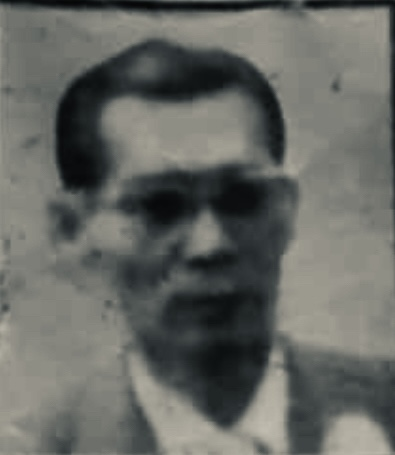
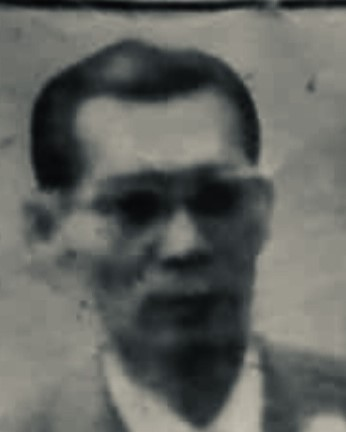
Move Login to menu and join Us to hero

diff --git a/app/sermons/page.tsx b/app/sermons/page.tsx
@@ -3,6 +3,8 @@
 import { useState } from "react";
 import { Button } from "@/components/ui/button";
 import { PlayCircle, Calendar, User } from "lucide-react";
+import Link from "next/link";
+import Image from "next/image"; // <--- Import Image
 
 // --- SERMON DATA ---
 const sermonsData = [
@@ -13,38 +15,36 @@ const sermonsData = [
     date: "December 9, 2025",
     category: "FAITH SERIES",
     description: "Discover what it means to truly trust God when the path ahead is unclear. We explore 2 Corinthians 5:7 and learn how to navigate life's challenges through spiritual vision.",
-    videoId: "oEBwRr2aILc", // Replace with real YouTube ID
+    videoId: "oEBwRr2aILc", 
   },
   {
     id: 2,
     title: "The Power of Prayer",
-    speaker: "Pastor John Doe",
-    date: "December 2, 2025",
+    speaker: "Bro. Abon Mangubat",
+    date: "February 12, 2023",
     category: "PRAYER WORKS",
     description: "Prayer is not just asking for things; it is a conversation with the Creator. Learn how to deepen your prayer life and see real change.",
-    videoId: "FwhLi7YOOSs",
+    videoId: "0ustuDLHTjI",
   },
   {
     id: 3,
     title: "Living a Life of Gratitude",
-    speaker: "Sis. Jane Smith",
-    date: "November 25, 2025",
+    speaker: "Bro. Abon Mangubat",
+    date: "December 1, 2025",
     category: "THANKSGIVING",
     description: "Gratitude changes our attitude. In this message, we look at how being thankful in all circumstances can transform your mental and spiritual health.",
-    videoId: "zRlU0GOMMX0",
+    videoId: "c5aaOqqp5tc",
   },
 ];
 
 export default function SermonsPage() {
   const [activeSermon, setActiveSermon] = useState(sermonsData[0]);
 
-  // Handle clicking a card at the bottom
   const handleSermonClick = (sermon: typeof sermonsData[0]) => {
     setActiveSermon(sermon);
     scrollToPlayer();
   };
 
-  // Scroll to the video player
   const scrollToPlayer = () => {
     const player = document.getElementById("main-video-player");
     if (player) {
@@ -55,17 +55,41 @@ export default function SermonsPage() {
   return (
     <div className="min-h-screen bg-slate-50 font-sans">
       
-      {/* --- HERO SECTION --- */}
-      <section className="bg-emerald-900 text-white py-12 px-4 md:px-12 transition-colors duration-500">
-        <div className="max-w-7xl mx-auto grid lg:grid-cols-2 gap-12 items-center">
+      {/* --- HERO SECTION WITH BACKGROUND IMAGE --- */}
+      <section className="relative w-full py-12 px-4 md:px-12">
+        
+        {/* 1. THE BACKGROUND IMAGE */}
+        <div className="absolute inset-0">
+          <Image 
+            src="/background.jpg"  // <--- Change this to your file name (e.g., sermon-pic.jpg)
+            alt="Sermon Background"
+            fill
+            className="object-cover brightness-25" // brightness-25 makes it dark so text pops
+            priority
+          />
+          {/* Green Overlay to match church theme */}
+          <div className="absolute inset-0 bg-emerald-900/80 mix-blend-multiply" />
+        </div>
+
+        {/* 2. BACK BUTTON (Now sits on top of image) */}
+        <div className="relative z-10 mb-6">
+          <Link href="/">
+            <Button variant="ghost" className="text-emerald-100 hover:text-white hover:bg-white/10 pl-0">
+              ← Back to Home
+            </Button>
+          </Link>
+        </div>
+
+        {/* 3. MAIN CONTENT */}
+        <div className="relative z-10 max-w-7xl mx-auto grid lg:grid-cols-2 gap-12 items-center text-white">
           
           {/* Left Side: Text Info */}
           <div className="space-y-6">
-            <span className="inline-block px-3 py-1 bg-emerald-800 text-emerald-100 text-xs font-bold tracking-wider rounded-full uppercase">
+            <span className="inline-block px-3 py-1 bg-white/20 text-emerald-100 text-xs font-bold tracking-wider rounded-full uppercase backdrop-blur-sm">
               {activeSermon.category}
             </span>
             
-            <h1 className="text-4xl md:text-5xl font-extrabold leading-tight">
+            <h1 className="text-4xl md:text-5xl font-extrabold leading-tight shadow-black drop-shadow-lg">
               {activeSermon.title}
             </h1>
             
@@ -80,14 +104,13 @@ export default function SermonsPage() {
               </div>
             </div>
 
-            <p className="text-lg text-emerald-50 leading-relaxed max-w-xl">
+            <p className="text-lg text-emerald-50 leading-relaxed max-w-xl drop-shadow-md">
               {activeSermon.description}
             </p>
 
-            {/* Watch Now Button (Scrolls to player) */}
             <Button 
               onClick={scrollToPlayer}
-              className="bg-white text-emerald-900 hover:bg-emerald-50 font-bold px-8 py-6 text-lg rounded-full"
+              className="bg-white text-emerald-900 hover:bg-emerald-50 font-bold px-8 py-6 text-lg rounded-full shadow-lg transition-transform hover:scale-105"
             >
               <PlayCircle className="mr-2 h-5 w-5" />
               Watch Now
@@ -95,12 +118,10 @@ export default function SermonsPage() {
           </div>
 
           {/* Right Side: The Video Player */}
-          {/* We added an ID here so the button can find it */}
-          <div id="main-video-player" className="w-full aspect-video bg-black rounded-xl overflow-hidden shadow-2xl border-4 border-emerald-800/50">
+          <div id="main-video-player" className="w-full aspect-video bg-black rounded-xl overflow-hidden shadow-2xl border-4 border-white/20">
             <iframe 
               width="100%" 
               height="100%" 
-              // --- CHANGE IS HERE: Removed "?autoplay=1" ---
               src={`https://www.youtube.com/embed/${activeSermon.videoId}`} 
               title="YouTube video player" 
               allow="accelerometer; clipboard-write; encrypted-media; gyroscope; picture-in-picture" 
@@ -121,14 +142,13 @@ export default function SermonsPage() {
           <div className="hidden md:block">
              <input 
                type="text" 
-               placeholder="Search by title or speaker..." 
+               placeholder="Search..." 
                className="px-4 py-2 border rounded-lg text-sm w-64"
              />
           </div>
         </div>
 
         <div className="grid gap-8 md:grid-cols-3">
-          
           {sermonsData.map((sermon) => (
             <div 
               key={sermon.id}
@@ -139,20 +159,17 @@ export default function SermonsPage() {
                 ${activeSermon.id === sermon.id ? 'ring-2 ring-emerald-600' : ''}
               `}
             >
-              {/* Thumbnail Area */}
               <div className="relative h-48 bg-gray-200 group-hover:opacity-90 transition-opacity">
                 <img 
                   src={`https://img.youtube.com/vi/${sermon.videoId}/hqdefault.jpg`} 
                   alt={sermon.title}
                   className="w-full h-full object-cover"
                 />
-                
                 <div className="absolute inset-0 flex items-center justify-center">
                   <div className="bg-white/90 rounded-full p-3 shadow-lg opacity-0 group-hover:opacity-100 transition-opacity transform scale-75 group-hover:scale-100">
                     <PlayCircle className="w-8 h-8 text-emerald-700" />
                   </div>
                 </div>
-
                 {activeSermon.id === sermon.id && (
                   <div className="absolute top-2 right-2 bg-red-600 text-white text-xs font-bold px-2 py-1 rounded">
                     SELECTED
@@ -160,7 +177,6 @@ export default function SermonsPage() {
                 )}
               </div>
 
-              {/* Card Content */}
               <div className="p-5">
                 <span className="text-xs font-bold text-emerald-600 uppercase tracking-wide">
                   {sermon.category}
@@ -174,7 +190,6 @@ export default function SermonsPage() {
               </div>
             </div>
           ))}
-
         </div>
       </section>
 

diff --git a/app/page.tsx b/app/page.tsx
@@ -89,7 +89,7 @@ export default function Home() {
             {/* Card 1 */}
             <div className="group rounded-2xl overflow-hidden shadow-lg border border-gray-100 hover:shadow-2xl transition duration-300">
               <div className="relative h-56 w-full">
-                <Image src="https://images.unsplash.com/photo-1510936111840-65e151ad71bb?q=80&w=2090&auto=format&fit=crop" alt="Bible Study" fill className="object-cover group-hover:scale-105 transition duration-500" />
+                <Image src="/rod.png" alt="Bible Study" fill className="object-cover group-hover:scale-105 transition duration-500" />
               </div>
               <div className="p-6 bg-white">
                 <h3 className="text-xl font-bold text-emerald-900 mb-2">Our Sermons</h3>
@@ -100,7 +100,7 @@ export default function Home() {
             {/* Card 2 */}
             <div className="group rounded-2xl overflow-hidden shadow-lg border border-gray-100 hover:shadow-2xl transition duration-300">
               <div className="relative h-56 w-full">
-                <Image src="/founder.jpg" alt="History" fill className="object-cover object-top group-hover:scale-105 transition duration-500" />
+                <Image src="/founder.jpg" alt="History" fill className="object-contain bg-gray-200" />
               </div>
               <div className="p-6 bg-white">
                 <h3 className="text-xl font-bold text-emerald-900 mb-2">Our History</h3>
@@ -111,7 +111,7 @@ export default function Home() {
             {/* Card 3 */}
             <div className="group rounded-2xl overflow-hidden shadow-lg border border-gray-100 hover:shadow-2xl transition duration-300">
               <div className="relative h-56 w-full">
-                <Image src="https://images.unsplash.com/photo-1529070538774-1843cb3265df?q=80&w=2070&auto=format&fit=crop" alt="Events" fill className="object-cover group-hover:scale-105 transition duration-500" />
+                <Image src="/sermon-pic.jpg" alt="Events" fill className="object-cover group-hover:scale-105 transition duration-500" />
               </div>
               <div className="p-6 bg-white">
                 <h3 className="text-xl font-bold text-emerald-900 mb-2">Upcoming Events</h3>
